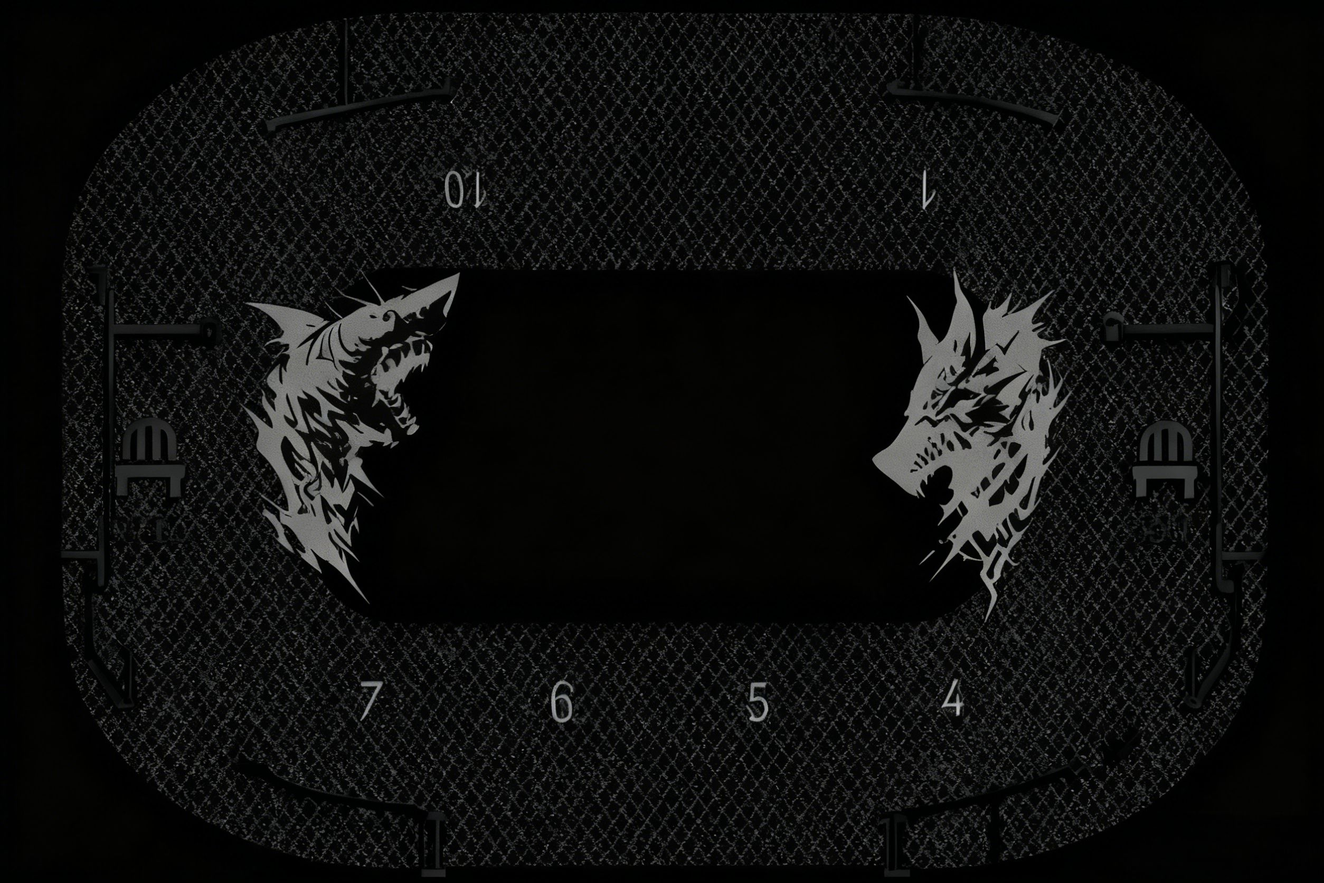
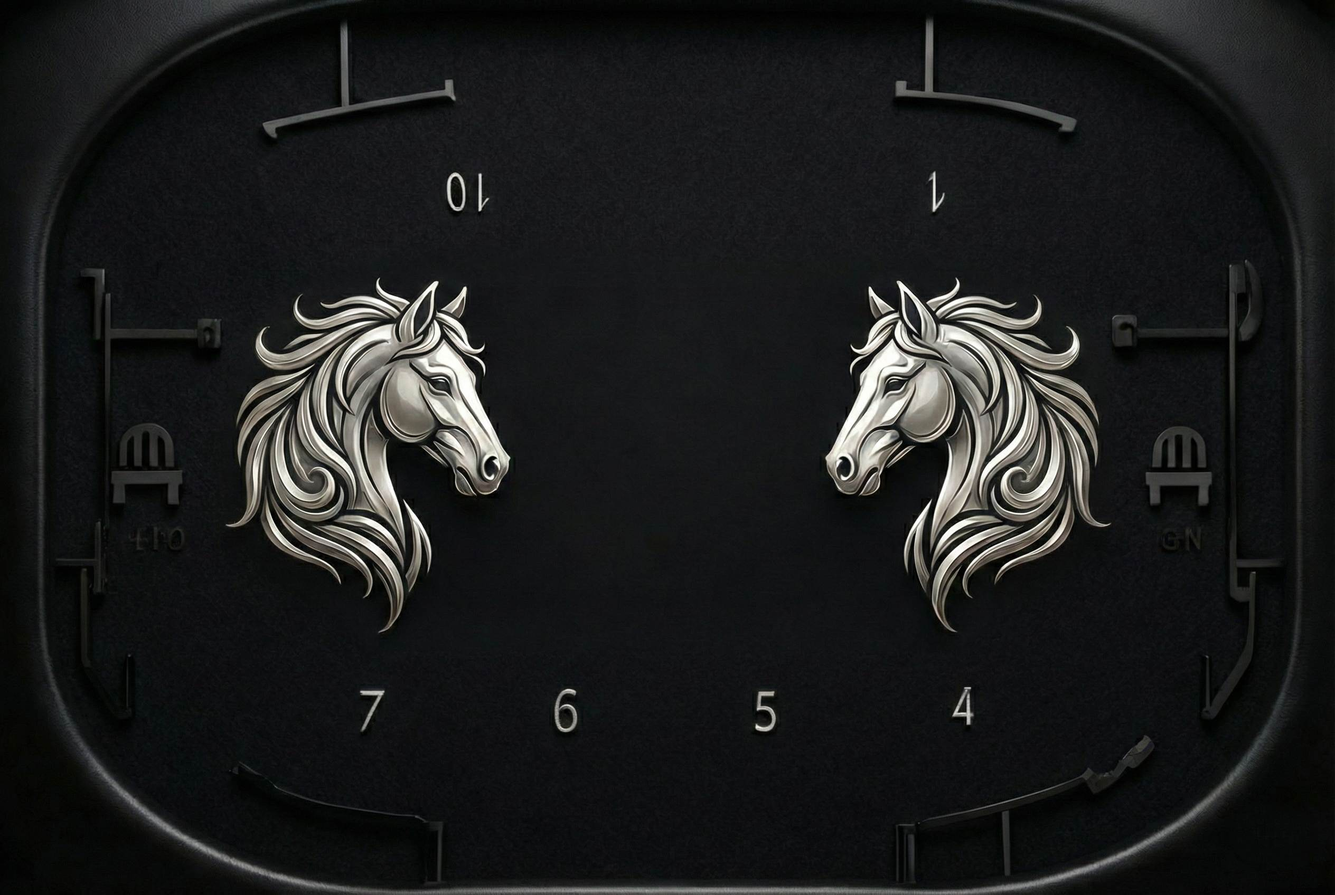
1

Changed region(s): [[0.0, 0.0, 1.0, 1.0]]

diff --git a/apps/mp/pages/table/index.js b/apps/mp/pages/table/index.js
@@ -136,15 +136,15 @@ Page({
                 total: 9
             },
             seats: [
-                { id: 1, status: 'reserved', name: '正男70...', avatar: '/images/huiyuan2.png', seatNum: 1 },
-                { id: 2, status: 'playing', name: '阿威', avatar: '/images/huiyuan2.png', seatNum: 2 },
+                { id: 1, status: 'reserved', name: '正男70...', avatar: '/images/huiyuan2.jpg', seatNum: 1 },
+                { id: 2, status: 'playing', name: '阿威', avatar: '/images/huiyuan2.jpg', seatNum: 2 },
                 { id: 3, status: 'empty', name: '', avatar: '', seatNum: 3 },
-                { id: 4, status: 'reserved', name: '宝宝', avatar: '/images/huiyuan2.png', seatNum: 4 },
+                { id: 4, status: 'reserved', name: '宝宝', avatar: '/images/huiyuan2.jpg', seatNum: 4 },
                 { id: 5, status: 'empty', name: '', avatar: '', seatNum: 5 },
-                { id: 6, status: 'reserved', name: 'xx', avatar: '/images/huiyuan2.png', seatNum: 6 },
-                { id: 7, status: 'reserved', name: '已预约', avatar: '/images/huiyuan2.png', seatNum: 7 },
+                { id: 6, status: 'reserved', name: 'xx', avatar: '/images/huiyuan2.jpg', seatNum: 6 },
+                { id: 7, status: 'reserved', name: '已预约', avatar: '/images/huiyuan2.jpg', seatNum: 7 },
                 { id: 8, status: 'empty', name: '', avatar: '', seatNum: 8 },
-                { id: 9, status: 'reserved', name: 'MikeC...', avatar: '/images/huiyuan2.png', seatNum: 9 },
+                { id: 9, status: 'reserved', name: 'MikeC...', avatar: '/images/huiyuan2.jpg', seatNum: 9 },
             ],
             subTable: {
                 name: '副赛事桌',
@@ -154,7 +154,7 @@ Page({
                 occupied: 0,
                 total: 9
             },
-            waitingList: ['/images/huiyuan2.png', '/images/huiyuan2.png']
+            waitingList: ['/images/huiyuan2.jpg', '/images/huiyuan2.jpg']
         });
     },
 
@@ -276,7 +276,7 @@ Page({
                 ...seats[seatIndex],
                 status: 'reserved',
                 name: userName,
-                avatar: userInfo?.avatar || '/images/huiyuan2.png',
+                avatar: userInfo?.avatar || '/images/huiyuan2.jpg',
                 userId: userInfo?.id
             };
             this.setData({ [seatArray]: seats });
@@ -294,7 +294,7 @@ Page({
                 ...seats[seatIndex],
                 status: 'reserved',
                 name: userName,
-                avatar: userInfo?.avatar || '/images/huiyuan2.png',
+                avatar: userInfo?.avatar || '/images/huiyuan2.jpg',
                 userId: userInfo?.id
             };
             this.setData({ [seatArray]: seats });

diff --git a/apps/mp/pages/ranking/index.js b/apps/mp/pages/ranking/index.js
@@ -114,7 +114,7 @@ Page({
         rank: item.rank,
         name: item.nickname || `用户${item.id ? item.id.toString().slice(-4) : 'xxxx'}`,
         score: this.formatScore(item.points),
-        avatar: item.avatar || '/images/huiyuan2.png',
+        avatar: item.avatar || '/images/huiyuan2.jpg',
         levelName: item.levelName || '普通会员'
       }));
 
@@ -126,7 +126,7 @@ Page({
           rank: myRank.rank || '未上榜',
           name: myRank.nickname || '我',
           score: this.formatScore(myRank.points),
-          avatar: myRank.avatar || '/images/huiyuan2.png'
+          avatar: myRank.avatar || '/images/huiyuan2.jpg'
         };
       } else {
         // 如果API没返回我的排名，尝试从列表中查找
@@ -169,7 +169,7 @@ Page({
         rank: 15,
         name: '我',
         score: '50000',
-        avatar: '/images/huiyuan2.png'
+        avatar: '/images/huiyuan2.jpg'
       },
       isEmpty: false,
       loading: false
@@ -189,14 +189,14 @@ Page({
    */
   getMockRankingData() {
     return [
-      { rank: 1, name: 'XYZ-3245', score: '176570', avatar: '/images/huiyuan2.png' },
-      { rank: 2, name: '不语-9218', score: '141000', avatar: '/images/huiyuan2.png' },
-      { rank: 3, name: '🍃🍃🍃-3118', score: '131000', avatar: '/images/huiyuan2.png' },
-      { rank: 4, name: 'kaka-6621', score: '128000', avatar: '/images/huiyuan2.png' },
-      { rank: 5, name: 'SX-6926', score: '112700', avatar: '/images/huiyuan2.png' },
-      { rank: 6, name: 'Spirit Reaper-1763', score: '90000', avatar: '/images/huiyuan2.png' },
-      { rank: 7, name: '渝都Vincent-9899', score: '88000', avatar: '/images/huiyuan2.png' },
-      { rank: 8, name: '秦智-7890', score: '85000', avatar: '/images/huiyuan2.png' }
+      { rank: 1, name: 'XYZ-3245', score: '176570', avatar: '/images/huiyuan2.jpg' },
+      { rank: 2, name: '不语-9218', score: '141000', avatar: '/images/huiyuan2.jpg' },
+      { rank: 3, name: '🍃🍃🍃-3118', score: '131000', avatar: '/images/huiyuan2.jpg' },
+      { rank: 4, name: 'kaka-6621', score: '128000', avatar: '/images/huiyuan2.jpg' },
+      { rank: 5, name: 'SX-6926', score: '112700', avatar: '/images/huiyuan2.jpg' },
+      { rank: 6, name: 'Spirit Reaper-1763', score: '90000', avatar: '/images/huiyuan2.jpg' },
+      { rank: 7, name: '渝都Vincent-9899', score: '88000', avatar: '/images/huiyuan2.jpg' },
+      { rank: 8, name: '秦智-7890', score: '85000', avatar: '/images/huiyuan2.jpg' }
     ];
   },
 

diff --git a/apps/mp/pages/member/index.js b/apps/mp/pages/member/index.js
@@ -9,7 +9,7 @@ Page({
   data: {
     isLogin: false, // 添加登录状态
     userInfo: {
-      avatar: '/images/huiyuan2.png', // 暂时使用通用图标
+      avatar: '/images/huiyuan2.jpg', // 暂时使用通用图标
       nickname: '点击登录',
       id: ''
     },
@@ -156,7 +156,7 @@ Page({
           this.setData({
             isLogin: false,
             userInfo: {
-              avatar: '/images/huiyuan2.png',
+              avatar: '/images/huiyuan2.jpg',
               nickname: '点击登录',
               id: ''
             },
@@ -210,7 +210,7 @@ Page({
         this.setData({
           isLogin: true,
           userInfo: {
-            avatar: userInfo.avatar || '/images/huiyuan2.png',
+            avatar: userInfo.avatar || '/images/huiyuan2.jpg',
             nickname: userInfo.nickname || userInfo.nickName || '德州爱好者', // Handle both nickName and nickname
             id: userInfo.id || ''
           }
@@ -219,7 +219,7 @@ Page({
         this.setData({
           isLogin: false,
           userInfo: {
-            avatar: '/images/huiyuan2.png',
+            avatar: '/images/huiyuan2.jpg',
             nickname: '点击登录',
             id: ''
           }
@@ -230,7 +230,7 @@ Page({
       this.setData({
         isLogin: false,
         userInfo: {
-          avatar: '/images/huiyuan2.png',
+          avatar: '/images/huiyuan2.jpg',
           nickname: '点击登录',
           id: ''
         }

diff --git a/apps/mp/utils/auth.js b/apps/mp/utils/auth.js
@@ -84,7 +84,7 @@ const authManager = {
           name: userInfo.nickName || '微信用户',
           nickname: userInfo.nickName || '微信用户',  // 预约代码使用 nickname
           nickName: userInfo.nickName || '微信用户',
-          avatar: userInfo.avatarUrl || '/images/huiyuan2.png',
+          avatar: userInfo.avatarUrl || '/images/huiyuan2.jpg',
           phone: '',
           points: 0,
           level: { name: '普通会员', code: 'V1' }

diff --git a/apps/mp/app.js b/apps/mp/app.js
@@ -2,10 +2,10 @@ const authManager = require('./utils/auth');
 
 App({
   globalData: {
-    // 本地开发环境地址
-    apiBase: 'http://localhost:3000',
+    // 生产环境地址
+    apiBase: 'http://47.109.44.38:3000',
     // 静态文件服务地址
-    cdnBase: 'http://localhost:3000/static/images',
+    cdnBase: 'http://47.109.44.38:3000/static/images',
     userInfo: null,
   },
 

diff --git a/apps/mp/pages/login/index.js b/apps/mp/pages/login/index.js
@@ -47,7 +47,7 @@ Page({
     // 直接使用用户输入的信息登录
     const userInfo = {
       nickName: this.data.nickname,
-      avatarUrl: this.data.avatarUrl || '/images/huiyuan2.png'
+      avatarUrl: this.data.avatarUrl || '/images/huiyuan2.jpg'
     };
 
     this.handleLogin(userInfo);

diff --git a/doc/progress.md b/doc/progress.md
@@ -1,3 +1,20 @@
+## [Date/Time]: 2026-01-05 11:25
+
+### [Status]: In Progress
+
+### [Changes]:
+1. **小程序生产配置**：
+   - 已将 `app.js` 中的 `apiBase` 从 `localhost:3000` 修改为 `http://47.109.44.38:3000`。
+   - 已将 `cdnBase` 同步更新。
+2. **后台管理系统打包**：
+   - 已完成生产环境打包 (`npm run build`)，`dist` 目录已生成。
+   - 打包耗时约 18 秒。
+
+### [Next Step]:
+1. **用户操作**：将 `dist` 目录上传到生产服务器。
+2. **用户操作**：在服务器上使用 PM2 启动/重启服务端。
+3. **用户操作**：在微信开发者工具中上传小程序并提交审核/发布体验版。
+
 ## [Date/Time]: 2026-01-05 10:45
 
 ### [Status]: Done
@@ -10,6 +27,9 @@
    - 点击"提交订单"后，系统会自动生成一个关联该桌位的订单。
 2. **API 扩展**：
    - 在 `orderApi` 中新增了 `create` 方法，用于前端调用 `POST /orders` 接口。
+3. **首页背景模糊化**：
+   - 为首页背景图添加了 `filter: blur(10rpx)` 模糊滤镜。
+   - 同步添加了 `transform: scale(1.1)` 以消除模糊溢出导致的边缘问题，提升视觉质感。
 
 ## [Date/Time]: 2026-01-05 10:30
 
